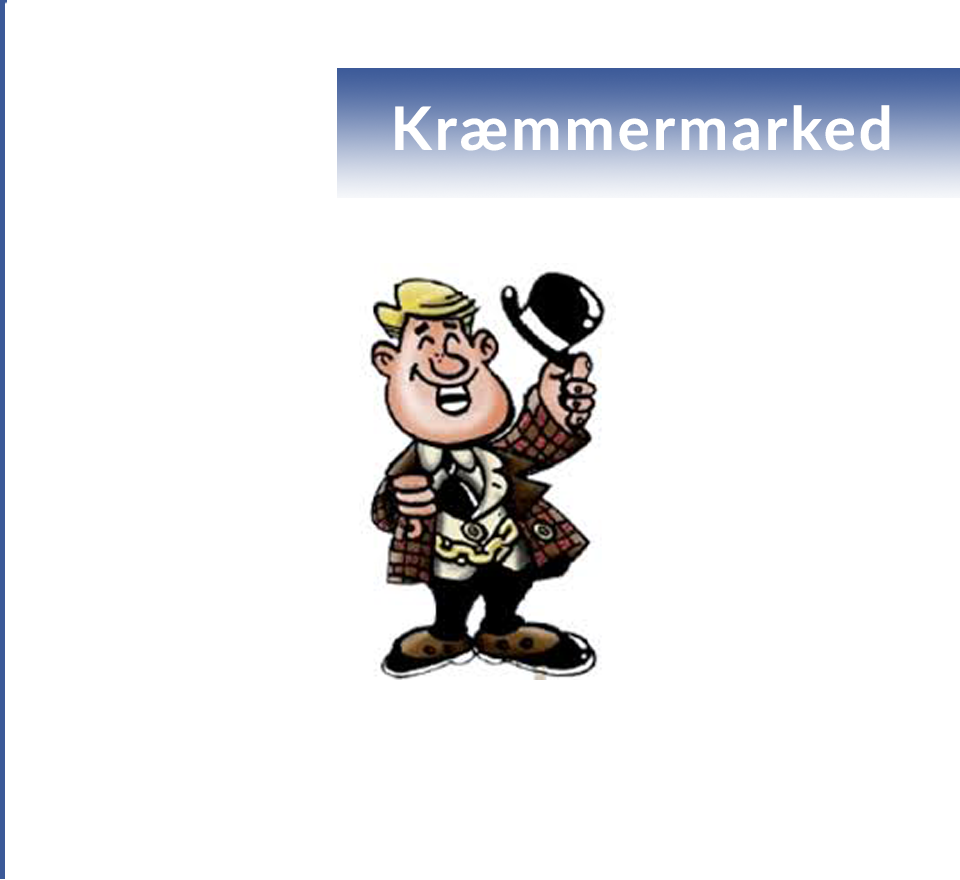
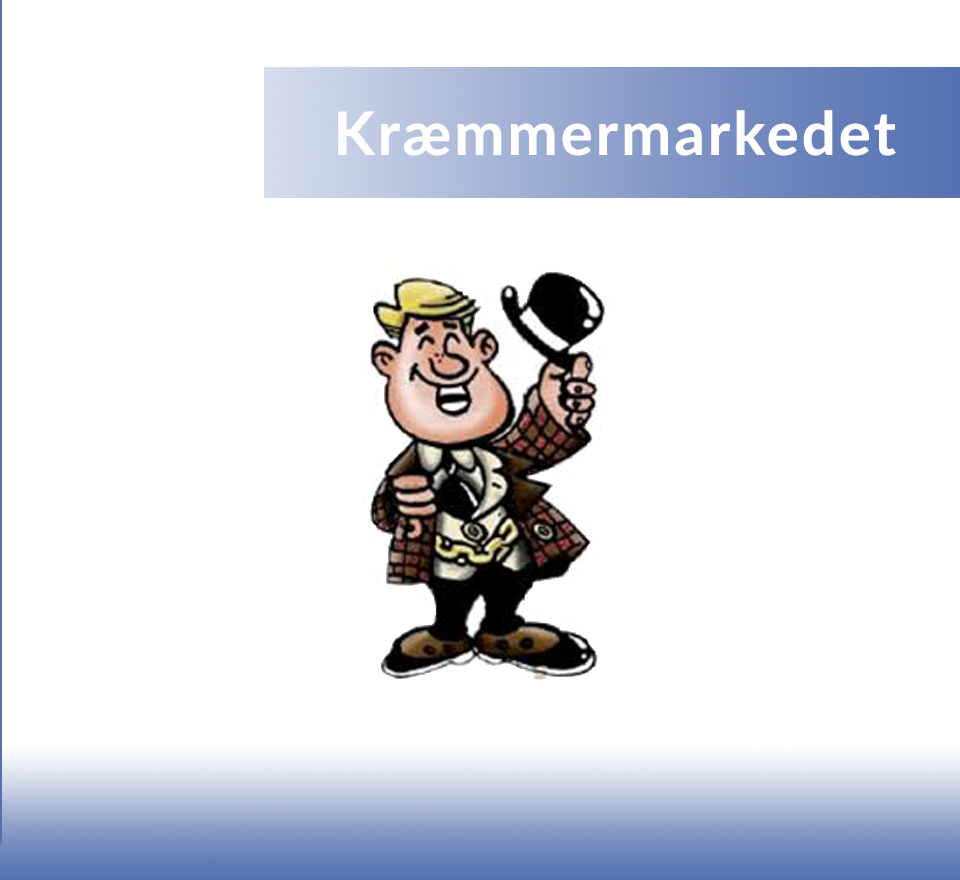
ForsideMakeover

Changed region(s): [[0.0, 0.0, 1.0, 1.0], [0.25, 0.0614, 1.0, 0.2455]]

diff --git a/index.html b/index.html
@@ -7,14 +7,14 @@
     <title>Langeskov Borgerforening | Velkommen</title>
     <link rel="stylesheet" href="forsidestyle.css">
   </head>
-<body bgcolor="#3B5998">
+<body bgcolor="#5470B1">
   <div class="row">
     <div class="column">
      <div class="container">
        <a href="borger_menu.html">
     <img src="Images/Hjemmeside BF.png" alt="Avatar" class="image" style="width:100%">
     <div class="middle">
-      <div class="text">Velkommen til Borgerforeningen</div>
+      <div class="text"> <b> Tryk her for at komme til Borgerforeningen </b> </div>
     </div>
   </div>
   </div>
@@ -24,7 +24,7 @@
     <a href="https://www.w3schools.com">
     <img src="Images/Forside KM.png" alt="Avatar" class="image" style="width:100%">
     <div class="middle">
-      <div class="text"> Velkommen til kræmmermarkedet</div>
+      <div class="text"> <b> Tryk her for at komme til kræmmermarkedet </b> </div>
     </div>
   </div>
 </div>
@@ -41,8 +41,6 @@
   <p><font color="white"><a href="https://www.w3schools.com/html/">Bliv kræmmer </a></p>
   <p><font color="white"><a href="https://www.w3schools.com/html/">Galleri</a></p>
 </div>
-
-
-
 </div>
+</body>
 </html>

diff --git a/forsidestyle.css b/forsidestyle.css
@@ -35,8 +35,8 @@
 }
 
 .text {
-  background-color: #3B5998;
-  color: white;
+  background-color: #6DB2AB;
+  color: black;
   font-size: 16px;
   padding: 16px 32px;
 }
@@ -76,7 +76,7 @@ margin-left: 200px;
 margin-bottom: 5px;
 width: 400px;
 height: 100;
-border: 8px solid #3B5998;
+border: 8px solid #5470B1;
 border-radius: 25px;
 padding: 10px;
 text-align: center;
@@ -89,7 +89,7 @@ text-align: center;
   margin-bottom: 5px;
   width: 400px;
   height: 100;
-  border: 6px solid #3B5998;
+  border: 6px solid #5470B1;
   border-radius: 25px;
   padding: 10px;
   text-align: center;
